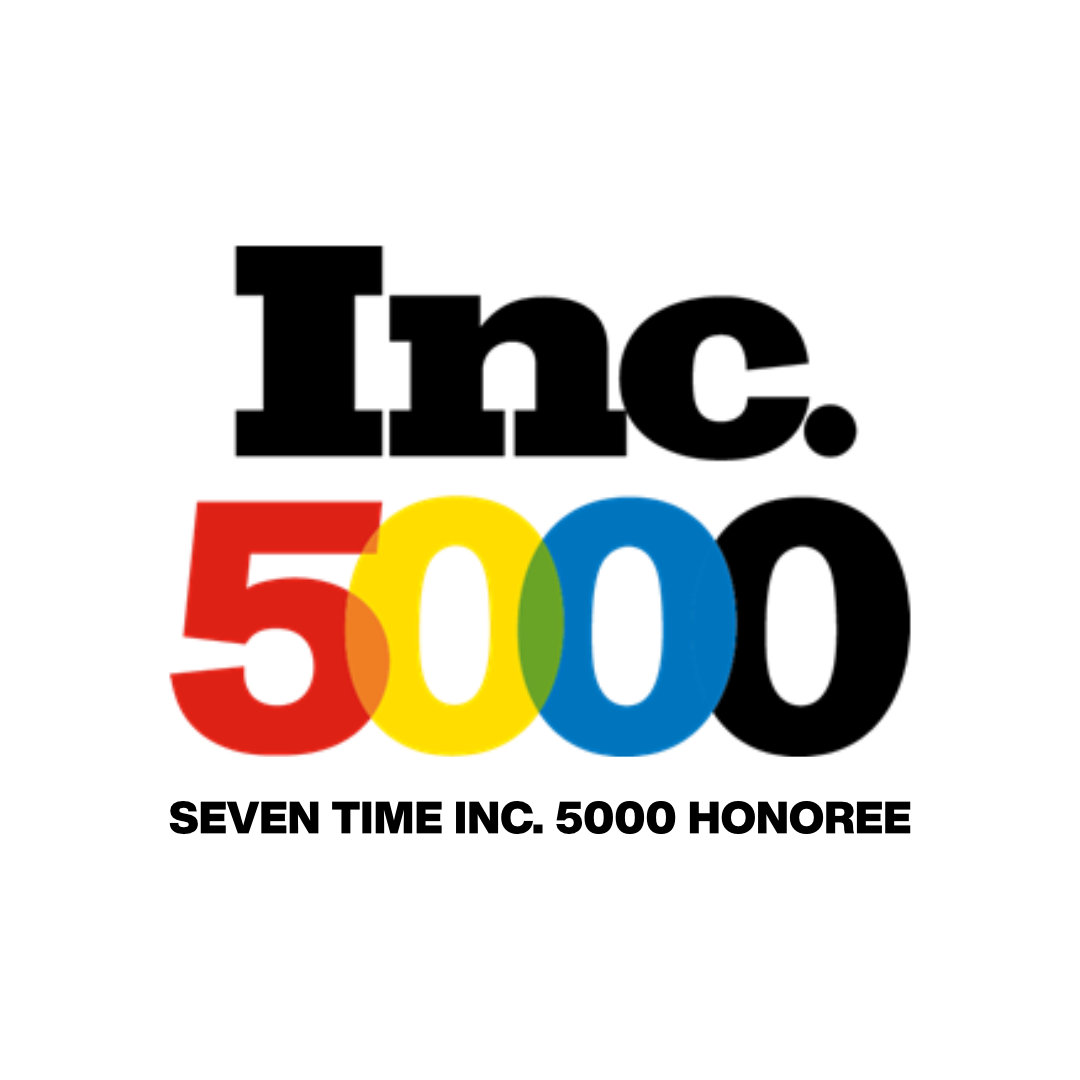
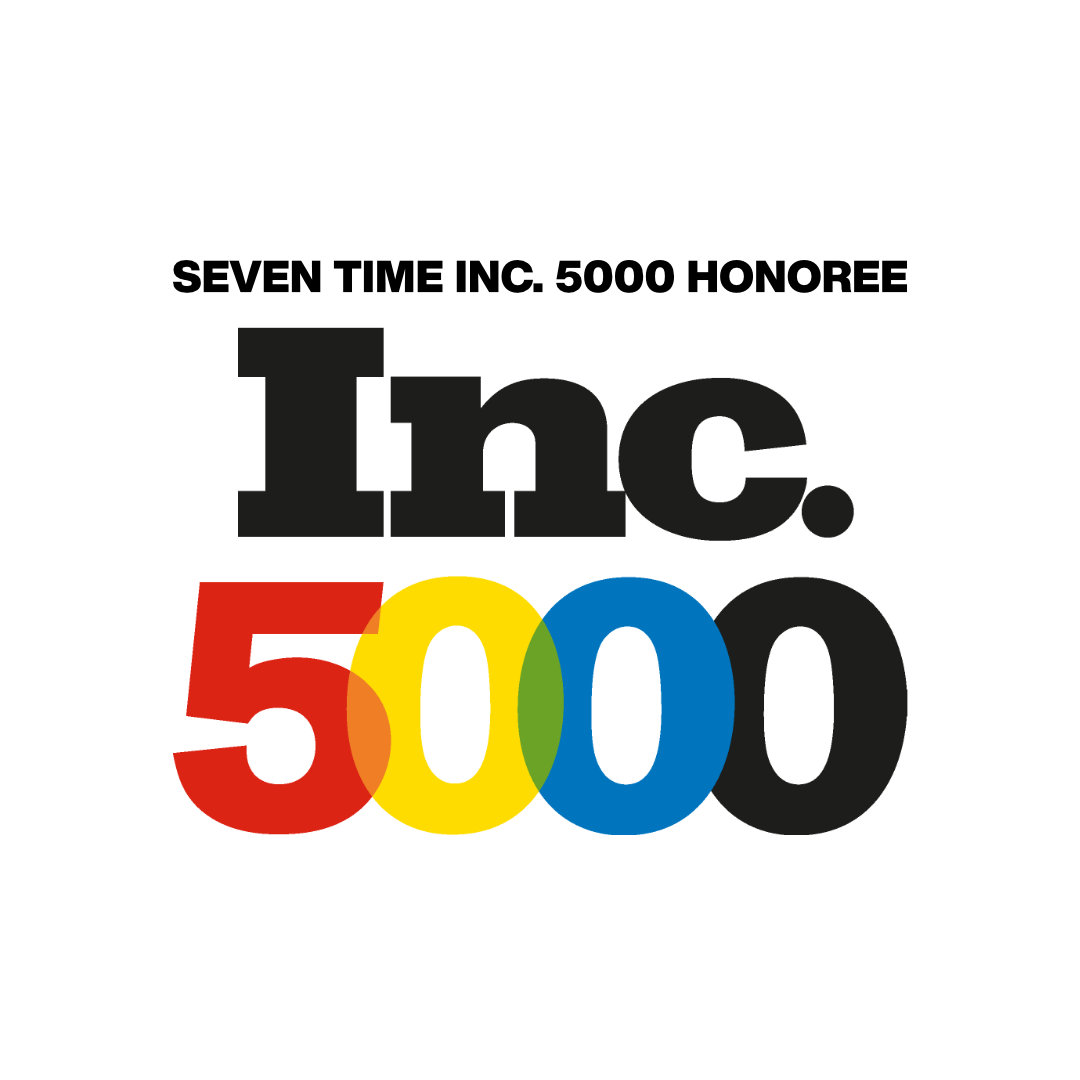
Make navbar a solid background, tighten mobile menu, refresh Inc. 5000 badges
- Header: remove the transparent / blurred-on-scroll effect. The navbar is
  now solid at every scroll position (white in light theme via --bg, the
  theme navy in dark mode so nav text stays legible), with a hairline bottom
  border and a soft shadow once scrolled.
- Mobile menu: fit the overlay to the dynamic viewport height, compact the
  link spacing, lock background scroll via an nav-open class on <html>, and
  lay the connect icons out in a 4-up row on narrow phones.
- Updated Inc. 5000 light/dark badge images; removed two stray unused
  ChatGPT source images from images/home.

Changed region(s): [[0.1528, 0.2139, 0.8556, 0.7944]]

diff --git a/css/components/interface.css b/css/components/interface.css
@@ -115,16 +115,13 @@ html[data-theme="dark"] .face-left { fill: #8AA5C2; }
   z-index: 120;
   height: var(--header-h);
   display: flex; align-items: center;
-  background: transparent;
-  border-bottom: 1px solid transparent;
-  transition: background-color .28s var(--ease), box-shadow .28s var(--ease),
-              border-color .28s var(--ease), backdrop-filter .28s var(--ease);
+  /* solid at every scroll position — white in the light theme (--bg),
+     the theme's own navy in dark mode so the light nav text stays legible */
+  background: var(--bg);
+  border-bottom: 1px solid var(--hairline);
+  transition: box-shadow .28s var(--ease);
 }
 .site-header.is-stuck {
-  background: color-mix(in srgb, var(--bg) 86%, transparent);
-  -webkit-backdrop-filter: saturate(1.6) blur(14px);
-  backdrop-filter: saturate(1.6) blur(14px);
-  border-bottom-color: var(--hairline);
   box-shadow: 0 1px 24px rgba(15,34,71,.07);
 }
 html[data-theme="dark"] .site-header.is-stuck { box-shadow: 0 1px 24px rgba(0,0,0,.5); }
@@ -520,56 +517,72 @@ html[data-theme="dark"] .gss-select__menu {
 /* ── 08. MOBILE OVERLAY MENU ─────────────────────────────── */
 .mobile-nav {
   position: fixed; inset: 0;
+  height: 100dvh;
+  max-height: 100dvh;
   z-index: 110;
   background: var(--bg);
-  padding: calc(var(--header-h) + 28px) clamp(20px, 6vw, 48px) 40px;
+  padding: calc(var(--header-h) + clamp(6px, 1.2svh, 12px)) clamp(20px, 5vw, 40px) clamp(14px, 2svh, 20px);
   display: flex; flex-direction: column; align-items: stretch;
   opacity: 0;
   transition: opacity .3s var(--ease);
   overflow-y: auto;
+  overscroll-behavior: contain;
+  -webkit-overflow-scrolling: touch;
+  box-sizing: border-box;
 }
 .mobile-nav[hidden] { display: none; }
 .mobile-nav.is-open { opacity: 1; }
-.mobile-nav ul { display: flex; flex-direction: column; gap: 4px; }
+.mobile-nav nav {
+  flex: 0 0 auto;
+}
+.mobile-nav ul { display: flex; flex-direction: column; gap: 0; }
 .mobile-nav nav a {
   display: block;
-  padding: 15px 0;
+  padding: clamp(6px, 1.1svh, 9px) 0;
   font-family: var(--serif);
-  font-size: clamp(1.4rem, 6vw, 2rem);
+  font-size: clamp(1.15rem, 3.8vw, 1.45rem);
   font-weight: 400;
   color: var(--navy);
   border-bottom: 1px solid var(--hairline);
   opacity: 0;
-  transform: translateY(14px);
-  transition: opacity .4s var(--ease), transform .4s var(--ease);
+  transform: translateY(10px);
+  transition: opacity .35s var(--ease), transform .35s var(--ease);
 }
 .mobile-nav.is-open nav a { opacity: 1; transform: none; }
-.mobile-nav.is-open nav li:nth-child(1) a { transition-delay: .06s; }
-.mobile-nav.is-open nav li:nth-child(2) a { transition-delay: .10s; }
-.mobile-nav.is-open nav li:nth-child(3) a { transition-delay: .14s; }
-.mobile-nav.is-open nav li:nth-child(4) a { transition-delay: .18s; }
-.mobile-nav.is-open nav li:nth-child(5) a { transition-delay: .22s; }
-.mobile-nav.is-open nav li:nth-child(6) a { transition-delay: .26s; }
+.mobile-nav.is-open nav li:nth-child(1) a { transition-delay: .05s; }
+.mobile-nav.is-open nav li:nth-child(2) a { transition-delay: .08s; }
+.mobile-nav.is-open nav li:nth-child(3) a { transition-delay: .11s; }
+.mobile-nav.is-open nav li:nth-child(4) a { transition-delay: .14s; }
+.mobile-nav.is-open nav li:nth-child(5) a { transition-delay: .17s; }
+.mobile-nav.is-open nav li:nth-child(6) a { transition-delay: .20s; }
+.mobile-nav.is-open nav li:nth-child(7) a { transition-delay: .23s; }
 .mobile-nav-foot {
   display: flex; align-items: center; gap: 14px;
   margin-top: auto;
-  padding-top: 32px;
+  padding-top: clamp(8px, 1.6svh, 14px);
+  flex: 0 0 auto;
 }
-.mobile-nav-foot .btn { flex: 1; }
-body.nav-open { overflow: hidden; }
+.mobile-nav-foot .btn { flex: 1; min-height: 44px; padding: 11px 20px; font-size: .82rem; }
+html.nav-open,
+body.nav-open {
+  overflow: hidden;
+  height: 100%;
+  overscroll-behavior: none;
+}
 
 /* Connect With Us — collapsible section inside the overlay (mobile only) */
-.mobile-connect { display: none; padding-top: 30px; }
+.mobile-connect { display: none; padding-top: clamp(8px, 1.5svh, 14px); flex: 0 0 auto; }
 .mobile-connect-toggle {
   display: flex; align-items: center; justify-content: space-between;
-  width: 100%; padding: 2px 0 16px;
+  width: 100%; padding: 2px 0 clamp(6px, 1svh, 9px);
   font-family: var(--sans);
-  font-size: .74rem; font-weight: 700;
+  font-size: .7rem; font-weight: 700;
   letter-spacing: .18em; text-transform: uppercase;
   color: var(--muted-2);
+  background: transparent; border: none; cursor: pointer;
 }
 .mobile-connect-toggle .ico {
-  width: 17px; height: 17px; color: var(--gold);
+  width: 15px; height: 15px; color: var(--gold);
   transition: transform .25s var(--ease);
 }
 .mobile-connect-toggle[aria-expanded="false"] .ico { transform: rotate(-90deg); }
@@ -582,21 +595,22 @@ body.nav-open { overflow: hidden; }
 .mobile-connect.is-collapsed .mobile-connect-wrap { grid-template-rows: 0fr; }
 .mobile-nav ul.mobile-connect-panel {
   display: grid;
-  grid-template-columns: repeat(auto-fit, minmax(155px, 1fr));
-  gap: 10px;
+  grid-template-columns: repeat(4, 1fr);
+  gap: 8px;
   min-height: 0;
   overflow: hidden;
   transition: opacity .24s var(--ease), visibility .24s var(--ease);
+  margin: 0; padding: 0; list-style: none;
 }
 .mobile-connect.is-collapsed .mobile-connect-panel { opacity: 0; visibility: hidden; }
 .mobile-social {
-  display: flex; align-items: center; gap: 12px;
-  padding: 14px;
-  border-radius: 12px;
+  display: flex; align-items: center; justify-content: center; gap: 0;
+  padding: 8px 4px;
+  border-radius: 10px;
   border: 1px solid var(--hairline);
   background: var(--card-soft);
   color: var(--navy);
-  min-height: 62px;
+  min-height: 42px;
   transition: border-color .2s var(--ease), background-color .2s var(--ease), transform .2s var(--ease);
 }
 .mobile-social:hover { border-color: var(--gold); }
@@ -608,21 +622,23 @@ body.nav-open { overflow: hidden; }
 .mobile-social:active { transform: scale(.98); }
 .mobile-social-ico {
   display: grid; place-items: center;
-  width: 36px; height: 36px; flex: 0 0 auto;
-  border-radius: 10px;
+  width: 28px; height: 28px; flex: 0 0 auto;
+  border-radius: 8px;
   background: color-mix(in srgb, var(--navy) 8%, transparent);
   color: var(--navy);
 }
 html[data-theme="dark"] .mobile-social-ico { background: rgba(255,255,255,.08); }
-.mobile-social-ico svg { width: 19px; height: 19px; fill: currentColor; }
-.mobile-social > span:last-child { font-size: .98rem; font-weight: 500; }
+.mobile-social-ico svg { width: 16px; height: 16px; fill: currentColor; }
+.mobile-social > span:last-child {
+  display: none;
+}
 
 /* Solutions submenu — collapsible, inside the primary list (mobile only).
    Same disclosure mechanism as "Connect With Us" above (grid-rows trick,
    no JS height math); .mobile-subnav is a generic pattern any future nav
    item with children can reuse. */
 .mobile-nav .mobile-subnav-row {
-  display: flex; align-items: center; justify-content: space-between; gap: 12px;
+  display: flex; align-items: center; justify-content: space-between; gap: 10px;
   border-bottom: 1px solid var(--hairline);
 }
 .mobile-nav .mobile-subnav-row a {
@@ -631,13 +647,14 @@ html[data-theme="dark"] .mobile-social-ico { background: rgba(255,255,255,.08); 
 }
 .mobile-subnav-toggle {
   display: flex; align-items: center; justify-content: center;
-  width: 40px; height: 40px; flex: 0 0 auto;
+  width: 32px; height: 32px; flex: 0 0 auto;
   border-radius: 50%;
   border: 1px solid var(--line);
   background: transparent;
+  cursor: pointer;
 }
 .mobile-subnav-toggle .ico {
-  width: 15px; height: 15px; color: var(--navy);
+  width: 14px; height: 14px; color: var(--navy);
   transition: transform .25s var(--ease);
 }
 .mobile-subnav-toggle[aria-expanded="true"] .ico { transform: rotate(180deg); }
@@ -655,9 +672,9 @@ html[data-theme="dark"] .mobile-social-ico { background: rgba(255,255,255,.08); 
 }
 .mobile-nav .mobile-subnav-panel a {
   display: block;
-  padding: 13px 6px;
+  padding: 8px 6px;
   font-family: var(--sans);
-  font-size: .96rem; font-weight: 500;
+  font-size: .88rem; font-weight: 500;
   color: var(--muted);
   border-bottom: 1px solid var(--hairline);
 }

diff --git a/js/core/site.js b/js/core/site.js
@@ -111,6 +111,7 @@
       window.requestAnimationFrame(function () { panel.classList.add('is-open'); });
       toggle.setAttribute('aria-expanded', 'true');
       toggle.setAttribute('aria-label', 'Close menu');
+      document.documentElement.classList.add('nav-open');
       document.body.classList.add('nav-open');
     }
 
@@ -118,6 +119,7 @@
       panel.classList.remove('is-open');
       toggle.setAttribute('aria-expanded', 'false');
       toggle.setAttribute('aria-label', 'Open menu');
+      document.documentElement.classList.remove('nav-open');
       document.body.classList.remove('nav-open');
       window.setTimeout(function () {
         if (!panel.classList.contains('is-open')) panel.hidden = true;

diff --git a/css/base/responsive.css b/css/base/responsive.css
@@ -159,7 +159,9 @@ html.js #main > section:nth-of-type(6) { animation-delay: .45s; }
   .cred-row.cols-5 { grid-template-columns: minmax(0,1fr); }
   .btn { white-space: normal; padding-inline: 20px; font-size: .715rem; letter-spacing: .09em; }
   .panel { padding: 26px 20px; }
-  .mobile-nav ul.mobile-connect-panel { grid-template-columns: minmax(0,1fr); }
+  .mobile-nav { padding-inline: 16px; }
+  .mobile-nav nav a { font-size: 1.15rem; padding-block: 5px; }
+  .mobile-nav ul.mobile-connect-panel { grid-template-columns: repeat(4, 1fr); gap: 6px; }
 }
 
 /* short landscape phones — don't let 100svh squeeze the hero */
